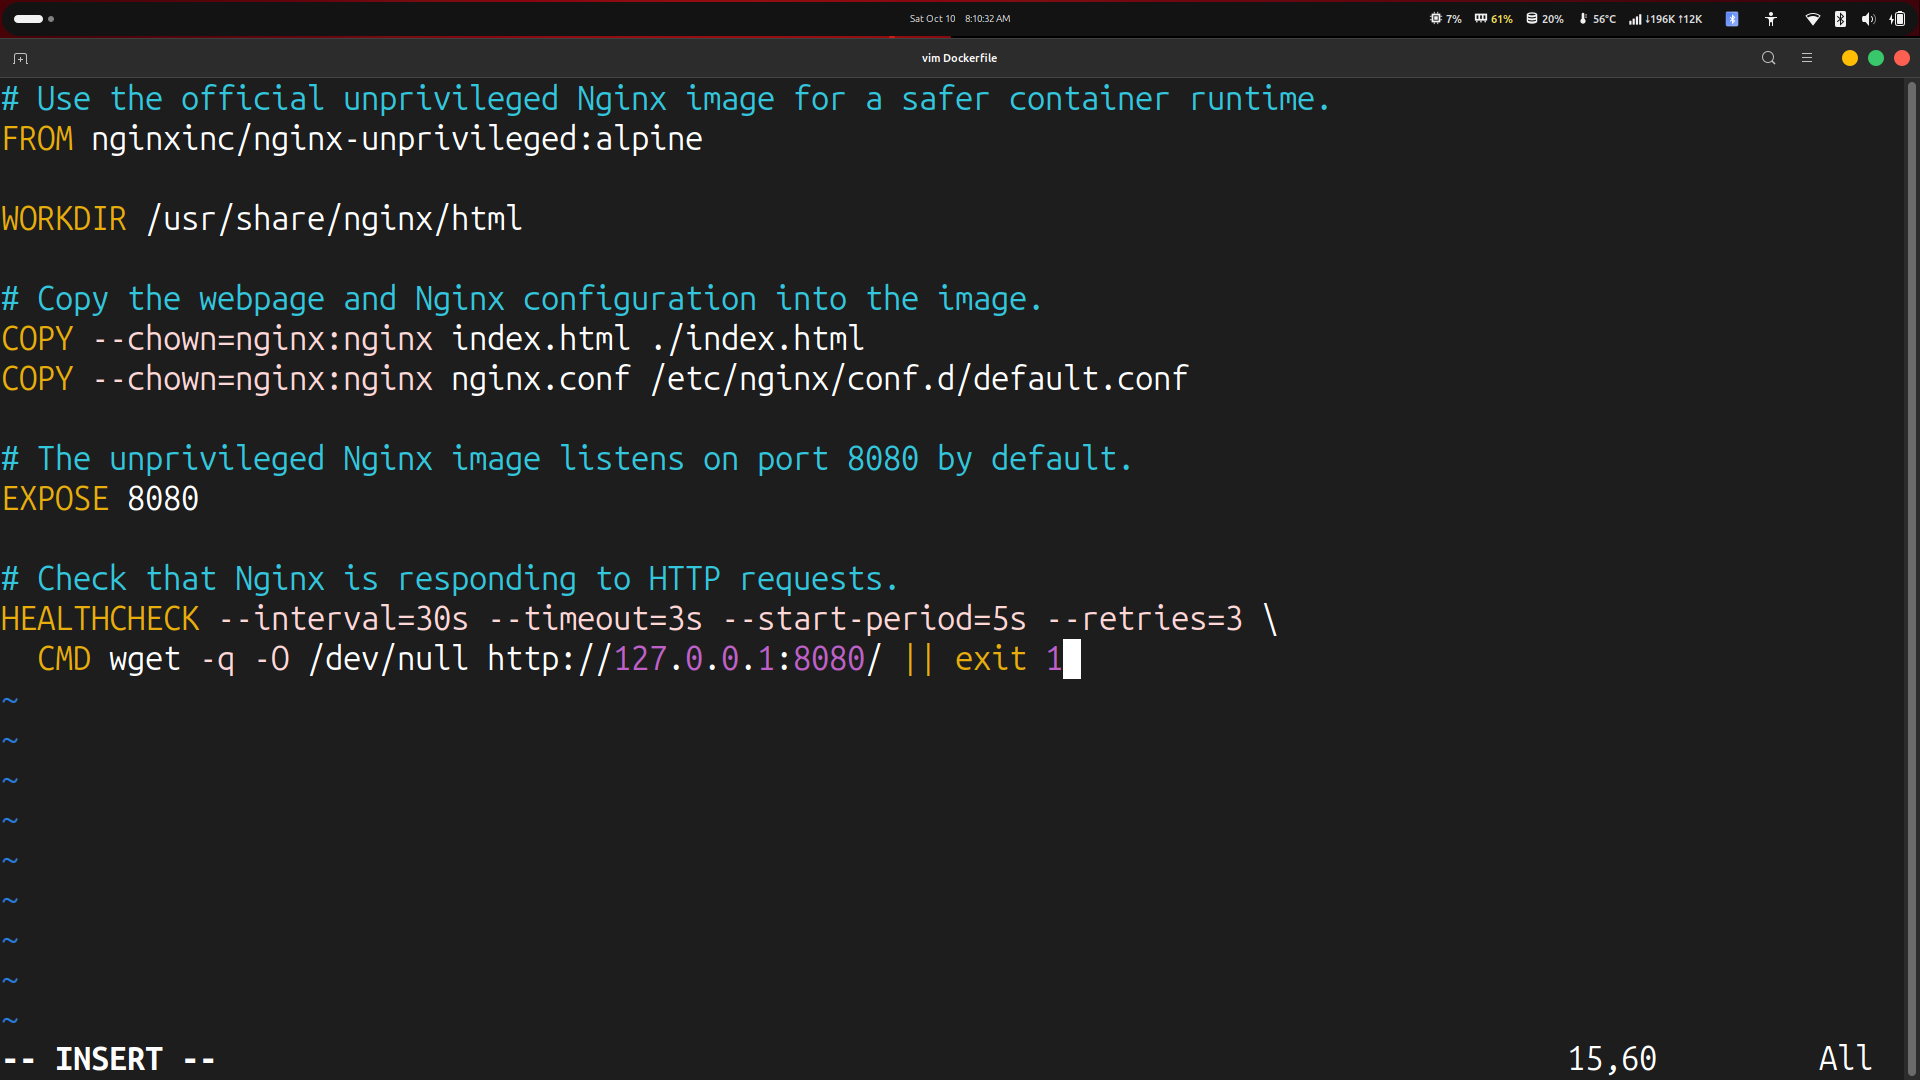
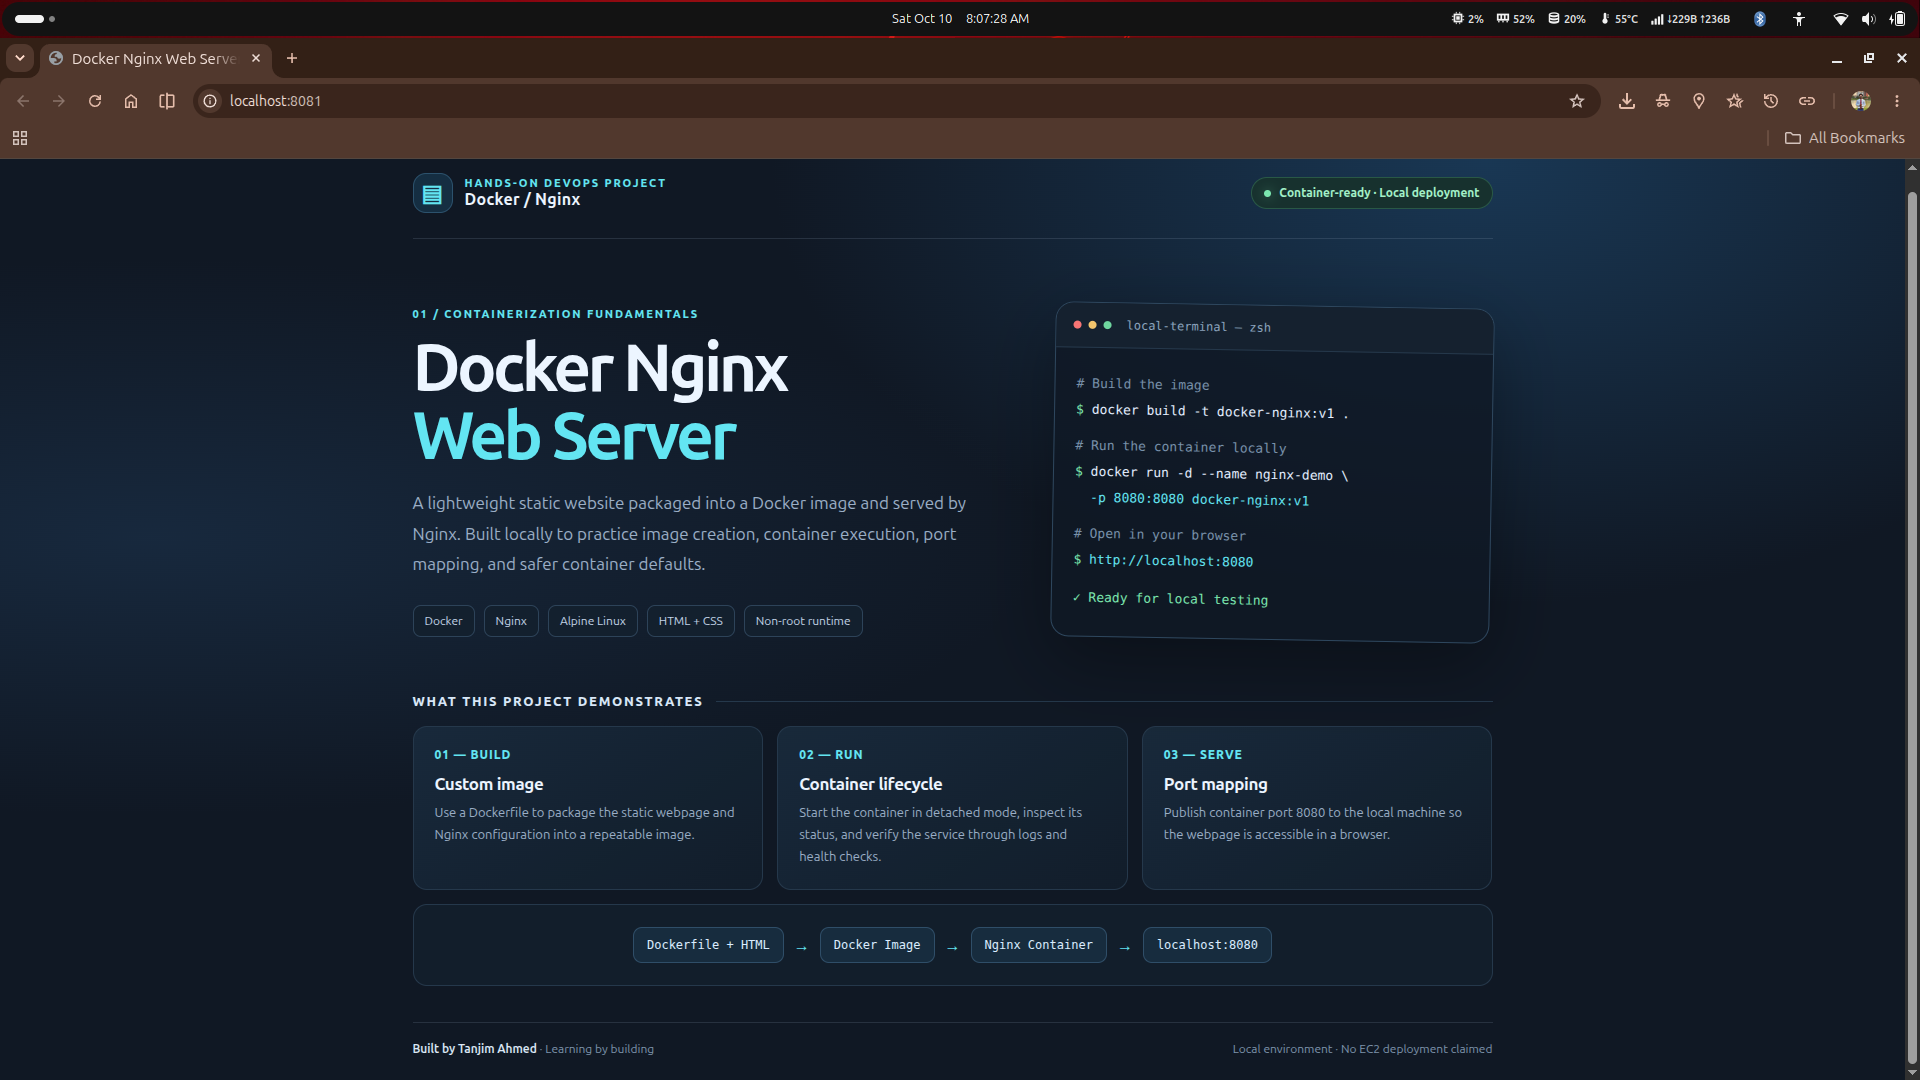
Fix README screenshot order

diff --git a/README.md b/README.md
@@ -23,7 +23,7 @@
 
 This project demonstrates how to containerize a custom HTML webpage using Docker and serve it through an Nginx web server.
 
-I created a custom Docker image named `docker-nginx:v1`, configured Nginx using `nginx.conf`, and ran the application inside a container named `nginx-demo`. The container uses host port `8081` mapped to container port `8080`, making the webpage accessible through a browser.
+I created a custom Docker image named `docker-nginx:v1`, configured Nginx using `nginx.conf`, and ran the application inside a container named `nginx-demo`. The container maps host port `8081` to container port `8080`, making the webpage accessible through a browser.
 
 ## Technologies Used
 
@@ -43,29 +43,29 @@ I created a custom Docker image named `docker-nginx:v1`, configured Nginx using 
 ## Project Architecture
 
 ```text
-             Dockerfile + index.html
-                      |
-                      v
-              Nginx Configuration
-                 nginx.conf
-                      |
-                      v
-                Docker Image
-              docker-nginx:v1
-                      |
-                      v
-               Docker Container
-                  nginx-demo
-                      |
-                      v
-               Nginx Web Server
-                Container :8080
-                      |
-                Port Mapping
-                 Host :8081
-                      |
-                      v
-             http://localhost:8081
+              Dockerfile + index.html
+                       |
+                       v
+               Nginx Configuration
+                  nginx.conf
+                       |
+                       v
+                 Docker Image
+               docker-nginx:v1
+                       |
+                       v
+                Docker Container
+                   nginx-demo
+                       |
+                       v
+                Nginx Web Server
+                 Container :8080
+                       |
+                 Port Mapping
+                  Host :8081
+                       |
+                       v
+              http://localhost:8081
 ```
 
 ## Project Structure
@@ -73,13 +73,14 @@ I created a custom Docker image named `docker-nginx:v1`, configured Nginx using 
 ```text
 docker-nginx/
 ├── Dockerfile
+├── .dockerignore
 ├── index.html
 ├── nginx.conf
 ├── README.md
 └── screenshots/
     ├── 01-docker-setup.png
     ├── 02-container-run.png
-    ├── 03-container-status.png
+    ├── 03-dockerfile.png
     └── 04-nginx-webpage.png
 ```
 
@@ -110,11 +111,20 @@ docker run -d \
 
 ### 3. Dockerfile Configuration
 
-![Dockerfile configuration](screenshots/03-dockerfile.png)
+Reviewed the Dockerfile used to build the custom Nginx image and configure the application container.
+
+```dockerfile
+# Dockerfile configuration
+# See the Dockerfile in the project root for the complete setup.
+```
+
+![Dockerfile Configuration](screenshots/03-dockerfile.png)
 
 ### 4. Access the Nginx Webpage
 
-**Local URL:** http://localhost:8081
+Opened the custom webpage served by Nginx in a browser to verify that the containerized application was accessible.
+
+**Local URL:** [http://localhost:8081](http://localhost:8081)
 
 ![Nginx Webpage](screenshots/04-nginx-webpage.png)
 
@@ -136,8 +146,8 @@ docker run -d \
 ## Key Learnings
 
 - Writing a Dockerfile to build a custom image.
-- Configuring Nginx for a containerized web server.
 - Building and tagging Docker images.
+- Configuring Nginx for a containerized web server.
 - Running containers in detached mode.
 - Understanding host-to-container port mapping.
 - Verifying container health and inspecting logs.
